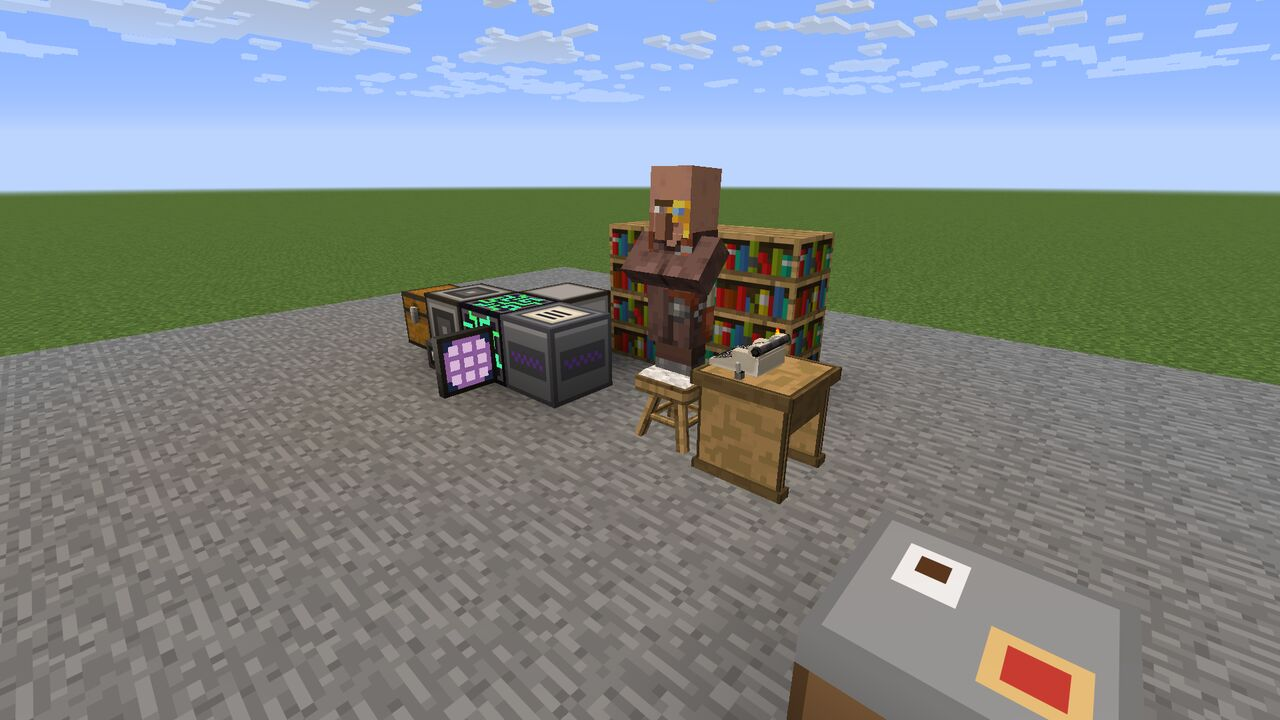
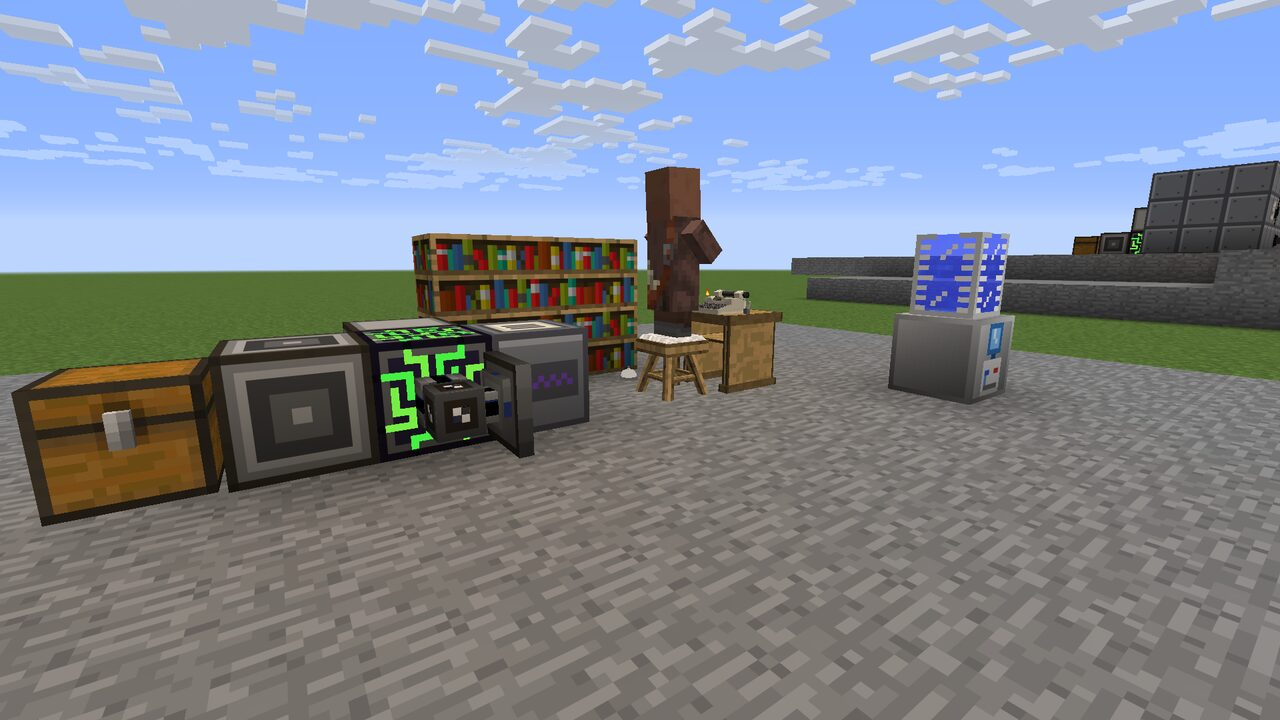
Founder's Manual: pictures of the break rooms and founder mode
New shots of the Desk with its Water Cooler, the office's microkitchen, the
cooler, the Coffee Machine's window and the founder's puzzle window.

diff --git a/docs/founders-manual/index.html b/docs/founders-manual/index.html
@@ -223,7 +223,7 @@ dispatch  = dispatch FTE × 1  ops/s       (per facility, per job)</div>
       <div class="take">
         <p>Sole proprietorship.  You are the IT department.  Sit down.</p>
       </div>
-      <figure><img src="img/desk.jpg" alt="A villager seated at a BiblioCraft desk with a typewriter, bookshelves behind, an ME controller, drive and tray beside, and a Break Room Counter in the foreground" width="1280" height="720" loading="lazy"><figcaption><b>The showcase Desk.</b>  The tray and the ME station on the left; the clerk at a desk with a typewriter and bell; bookshelves for Filing; a Break Room Counter in the foreground.</figcaption></figure>
+      <figure><img src="img/desk.jpg" alt="The showcase Desk from the side: a chest and the ME station in front, a villager at a BiblioCraft desk with a typewriter, bookshelves behind, and a Water Cooler under a blue tank to the right" width="1280" height="720" loading="lazy"><figcaption><b>The showcase Desk.</b>  The ME station in front; the clerk at a desk with a typewriter, bookshelves behind for Filing; a Water Cooler under its tank on the right.</figcaption></figure>
       <div class="build">
         <h4>Build it</h4>
         <ul>
@@ -237,6 +237,7 @@ dispatch  = dispatch FTE × 1  ops/s       (per facility, per job)</div>
         </ul>
       </div>
       <p>Then staff it.  <mark>Founder mode</mark>: sit on the seat yourself and you're the worker.  It's the cheapest hire you'll ever make and the least scalable.  A window opens with your work: add two digits, type a three-letter captcha, click the scary number in a grid of digits, fill in the one missing digit of a 3 × 3 sudoku.  Each one takes two seconds and buys you four seconds of focus, up to ten ahead, and the Desk works only while you're focused.  Close the window and it stops within ten seconds; right-click the typewriter to get back on the grind.  When you're ready to delegate, read the next section.</p>
+      <figure><img src="img/founder_gui.jpg" alt="The founder mode window: a grid of pale blue digits on dark blue in the middle, motivational quotes on both sides, tickets closed at the top right and an empty focus bar at the bottom" width="1040" height="592" loading="lazy"><figcaption><b>Founder mode.</b>  Find the scary number, it fidgets.  The bar at the bottom is your focus.</figcaption></figure>
       <p class="aside">The quotes around the puzzles are from my LinkedIn.  You're welcome.</p>
       <div class="pair narrow-wide">
         <figure><img src="img/tray_gui.jpg" alt="Requisition Tray window: Working, a contracted employee is at the desk, planning 6.0 steps/s, dispatch 0.0 ops/s, filing 0 of 1152 B, morale 61, paper and wages slots, coffee and pizza party" width="640" height="669" loading="lazy"><figcaption><b>The tray's window</b> is your one-page board deck: the bottleneck, who's working, the four figures, paper on the left, wages on the right, perks at the bottom.</figcaption></figure>
@@ -304,6 +305,11 @@ morale 100 → 120 % output</div>
           <tr><td>Snack Vending Machine</td><td>EV, 16384 EU a sandwich</td><td>5 × 5 chunks</td><td>Sandwiches</td><td class="n plus">+4, +2 per kind, up to 6</td></tr>
         </tbody>
       </table></div>
+      <figure><img src="img/breakroom.jpg" alt="An office break room: a sink, a coffee machine with a cup and a green light, a fridge, an oven, a toaster and a potted plant in a row, a snack vending machine on the right, and the office's villagers at their terminals behind" width="1280" height="720" loading="lazy"><figcaption><b>A microkitchen.</b>  Sink, Coffee Machine, fridge, oven, toaster, plant: 17 of 25.  The Snack Vending Machine on the right.</figcaption></figure>
+      <div class="pair">
+        <figure><img src="img/cooler.jpg" alt="A Water Cooler machine under a blue Iron Tanks tank, with a potted plant beside it" width="1280" height="720" loading="lazy"><figcaption><b>The Water Cooler</b> under its tank.  No power, no frills, +5.</figcaption></figure>
+        <figure><img src="img/breakroom_gui.jpg" alt="The Coffee Machine window: Open, pizza party; workers 6, visits 1; kitchen 17 of 25; coffee house blend; coffee beans, sugar and cocoa powder in its slots, and a milk gauge" width="570" height="525" loading="lazy"><figcaption><b>The Coffee Machine's window.</b>  Beans, sugar and cocoa in; milk in the gauge.  Cake in it threw a party.</figcaption></figure>
+      </div>
       <p>Then make it a <mark>microkitchen</mark>.  Cooking for Blockheads fixtures within six blocks of the machine add 4 each per kind (sink, fridge, oven, counters, cabinets, toaster), up to 20.  Plants add 1 each, up to 5: potted plants, Natura's bushes, anything that grows.  The coffee's bonus belongs to the office: it's the average of the extras in their recent cups.</p>
       <p>The catch is <mark>breaks</mark>.  A worker bound to an open break room takes 30 seconds every five minutes, walks over, gets served, loiters, and walks back.  The better the kitchen, the longer and more often, by up to a quarter.  While they're away the Desk or Mainframe says "on a break" and does without them.  A paid manager cuts it to 20 seconds every seven minutes, however nice the kitchen is.  Managers also make their presence felt now and then: the Endermen scream.</p>
       <p class="aside">Free snacks are a retention strategy.  Retention is a strategy for not paying recruiters.</p>
